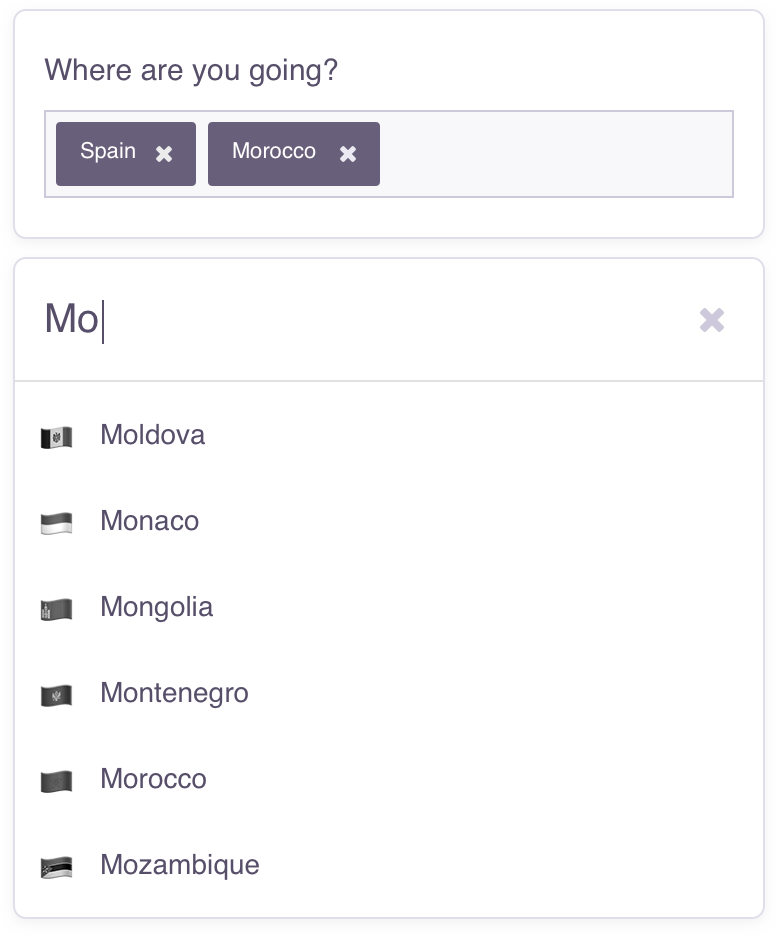
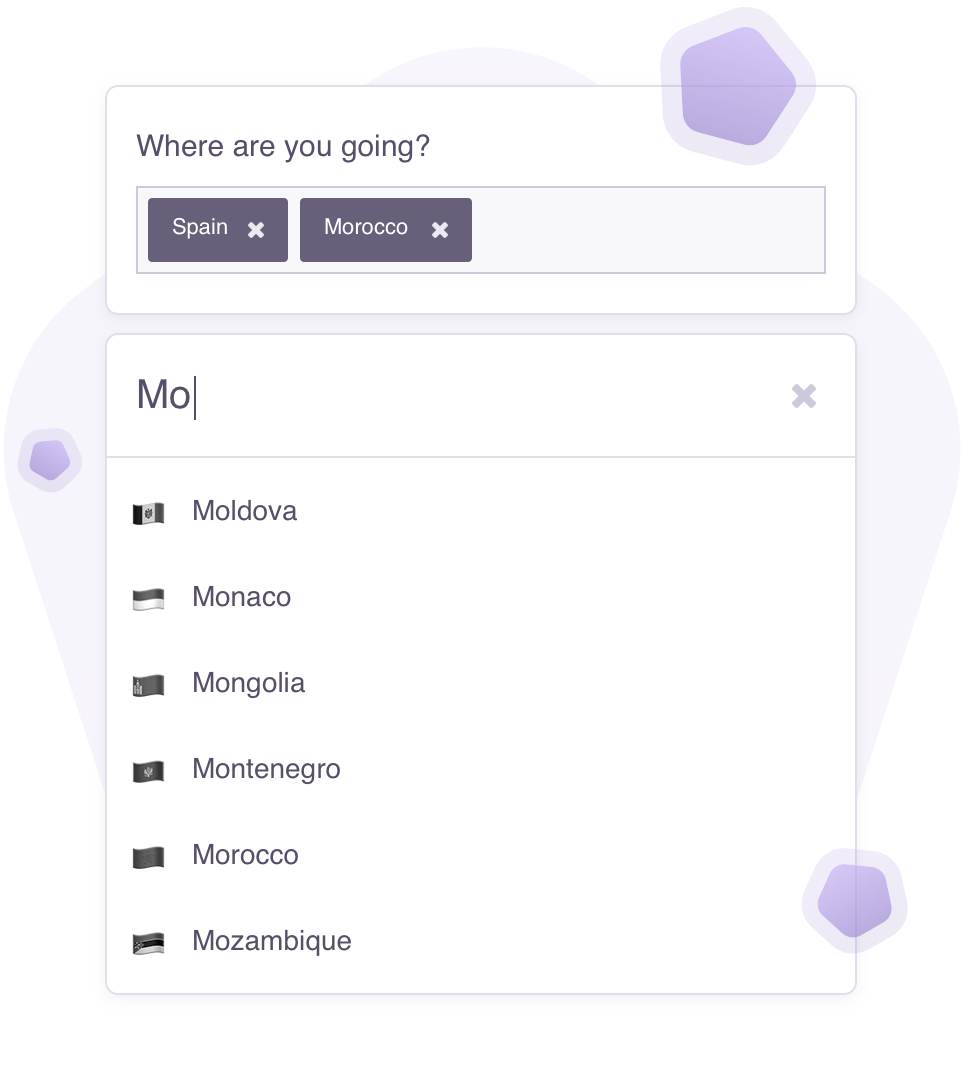
Adding decorations to the mobile images (hx)

diff --git a/src/components/content-block/_content-block.scss b/src/components/content-block/_content-block.scss
@@ -133,7 +133,7 @@
 
     &--hx-image-10 {
       display: block;
-      margin: -$spacing-6 auto -1rem auto;
+      margin: -$spacing-6 auto -2rem auto;
 
       @media screen and (min-width: map-get($breakpoints, 'breakpoint-1')) {
         max-width: 51.5%;
@@ -146,9 +146,10 @@
 
     &--hx-image-11 {
       display: block;
-      margin: -$spacing-6 auto -.5rem auto;
+      margin: -$spacing-6 auto -1.5rem auto;
 
       @media screen and (min-width: map-get($breakpoints, 'breakpoint-1')) {
+        margin: -$spacing-6 auto -1rem auto;
         max-width: 50%;
       }
 
